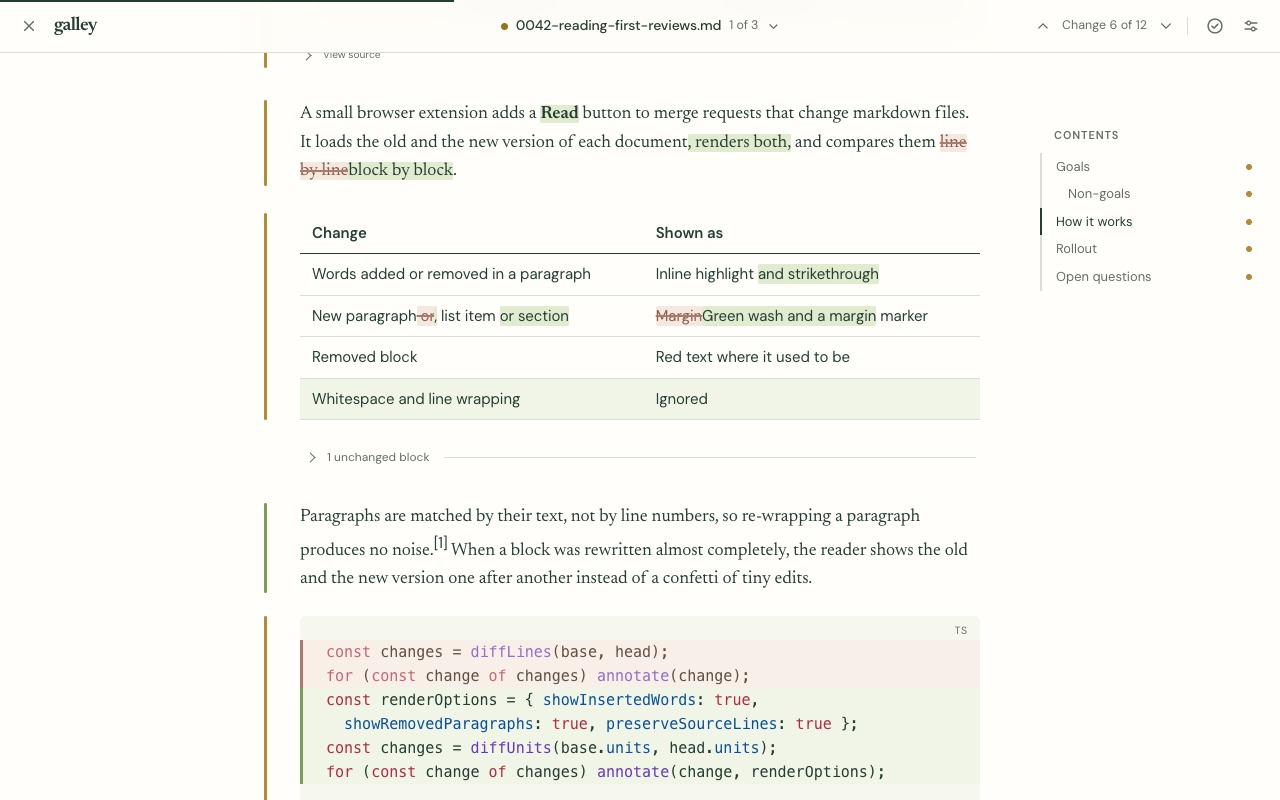
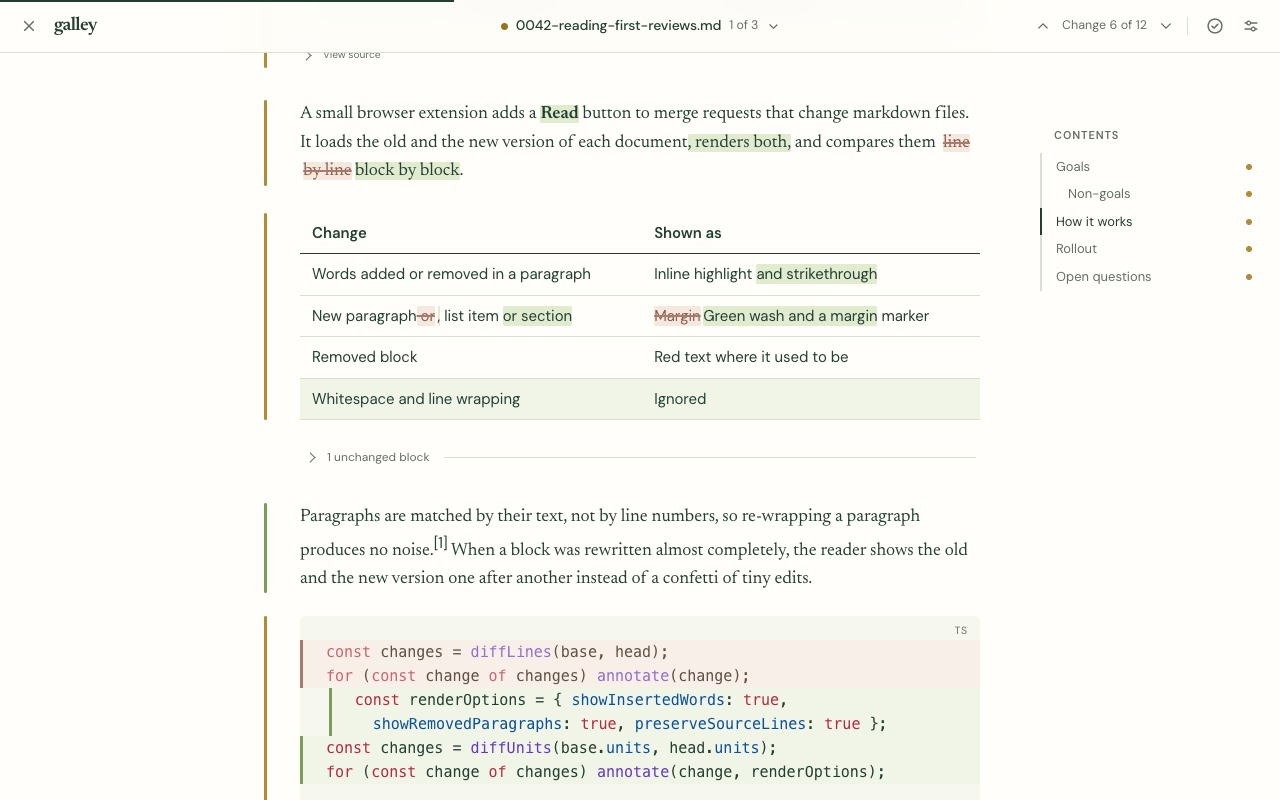
Separate adjacent inserted and deleted wording

diff --git a/src/ui/reader.css b/src/ui/reader.css
@@ -684,6 +684,11 @@
   text-decoration-color: var(--del-strike);
 }
 
+/* Separate the old and new wording of a replacement without adding spaces to the document. */
+.mode-changes .mr-content :is(del.mr-del + ins.mr-ins, ins.mr-ins + del.mr-del) {
+  margin-inline-start: 0.18em;
+}
+
 /* Code wraps instead of scrolling sideways: every line is a block, and wrapped parts continue under
    the line's own indentation plus two characters (--indent is set per line). */
 .mr-content pre {
